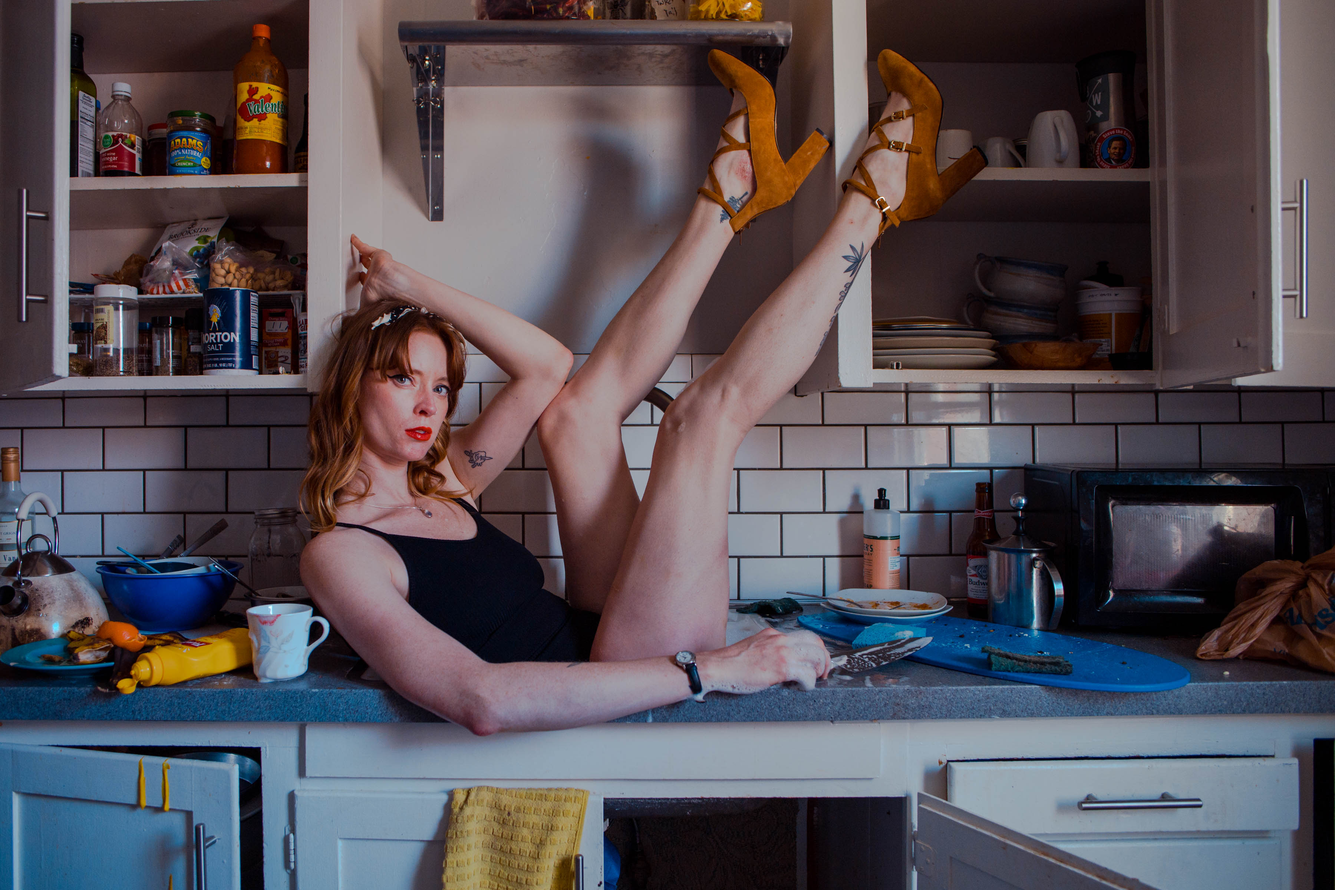
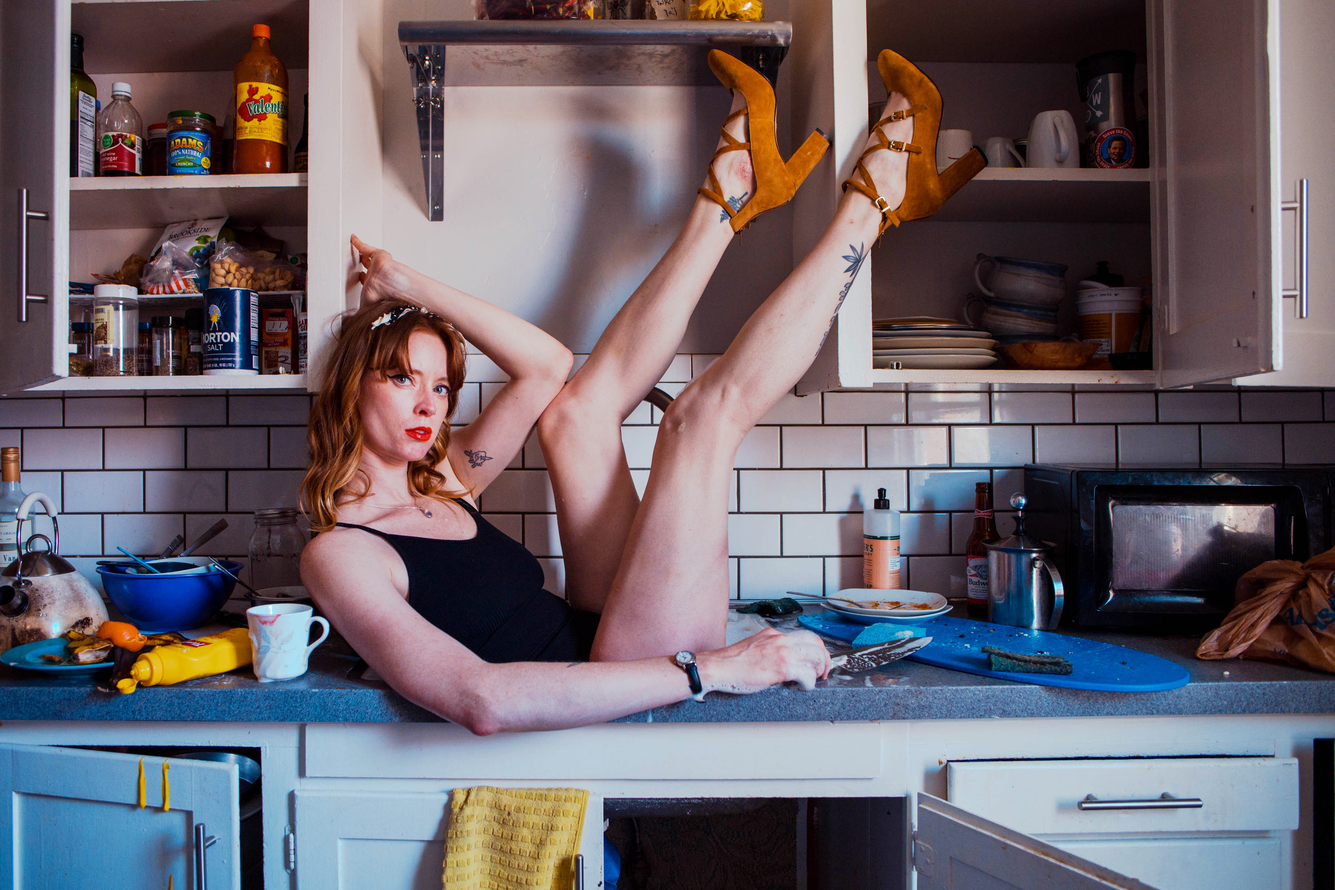
fnl

diff --git a/final/css/style.css b/final/css/style.css
@@ -8,12 +8,13 @@ html {font-size: 75px;
              border: 6px ;
              padding: 20px ;
              margin-left: 4% ;
+             margin-top: 4%
              background-color: rgb(195, 128, 1);
              font-size: 100%;
              color: rgb(255, 226, 224);
              overflow: scroll;
              display: inline;
-             position:relative ;
+             position: relative;
              float: left ;
              }
 

diff --git a/final/index.html b/final/index.html
@@ -9,7 +9,7 @@
     <link type="text/css" rel="stylesheet" href="./css/foundation.css">
     <link rel="stylesheet" href="./css/uikit.css">
     <style>
-      body {background-image: url('./images/geese.jpg');
+      body {background-image: url('./image/kitchen.jpg');
       background-repeat: no-repeat;
       background-size: 100% }
    </style>
